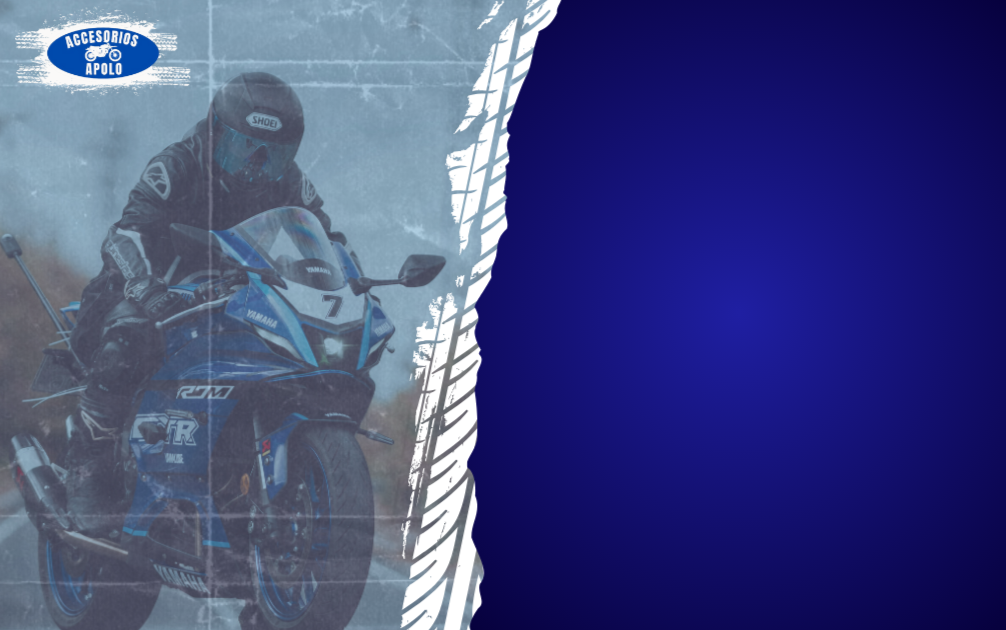
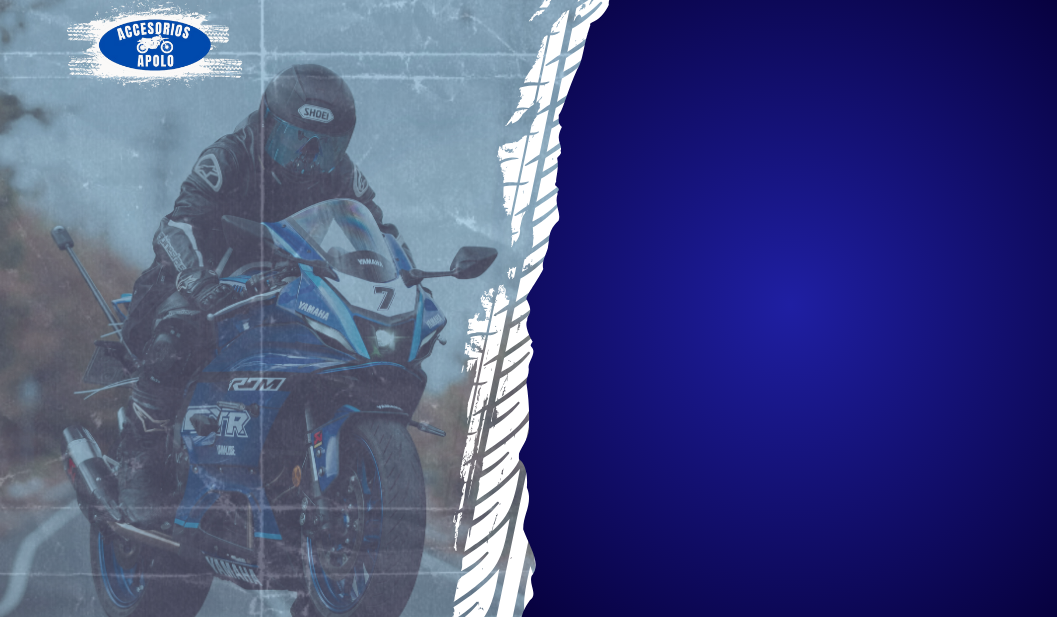
modal login listo y responsive

Changed region(s): [[0.0, 0.0, 0.5855, 1.0], [0.3698, 0.0616, 0.4006, 0.0924]]

diff --git a/src/Components/Layouts/LoginModal/LoginModal.css b/src/Components/Layouts/LoginModal/LoginModal.css
@@ -19,11 +19,11 @@
     pointer-events: auto;
 }
 
-.modal-box {
+.login-modal-box {
     position: relative;
     width: 58rem;
-    height: 35rem;
-    background-image: url('../../../assets/images/img-register.png');
+    height: 33rem;
+    background-image: url('../../../assets/images/img-login.png');
     background-size: cover;
     background-position: center;
     border-radius: 20px;
@@ -34,9 +34,11 @@
     /*transform: translateY(-30px);*/
     transition: all 0.35s ease;
     z-index: 10000;
+    display: flex;
+    justify-content: right;
 }
 
-.modal-box.active {
+.login-modal-box.active {
     opacity: 1;
     transform: scale(1);
 }
@@ -77,6 +79,7 @@
 .modal-form-container h2 {
     font-size: 28px;
     font-weight: bold;
+    margin-bottom: 30px;
     text-align: center;
 }
 
@@ -89,12 +92,16 @@ form {
 .input-group {
     display: flex;
     gap: 15px;
+    flex-direction: column;
+    justify-content: center;
+    align-items: center;
 }
 
 .input-field {
     flex: 1;
     display: flex;
     flex-direction: column;
+    width: 75%;
 }
 
 .input-field label {
@@ -130,7 +137,7 @@ form {
     align-items: center;
     justify-content: right;
     transition: all 0.3s ease;
-    width: 11rem;
+    width: 12rem;
     height: 3.5rem;
     margin-right: 2.7rem;
     text-align: center;
@@ -139,7 +146,7 @@ form {
 .submit-btn span {
     position: relative;
     z-index: 1;
-    padding-right: 1.5rem;
+    padding-right: 1.3rem;
 }
 
 .submit-btn:hover {
@@ -200,7 +207,7 @@ form {
 }
 
 @media (max-width: 394px){
-    .modal-box {
+    .login-modal-box {
         background: radial-gradient(circle at 50% 50%, #1f1fa2, #06003b);
         flex-direction: column;
         width: 84%;
@@ -218,7 +225,7 @@ form {
 }
 
 @media (min-width: 395px) and (max-width: 431px){
-    .modal-box {
+    .login-modal-box {
         background: radial-gradient(circle at 50% 50%, #1f1fa2, #06003b);
         flex-direction: column;
         width: 84%;
@@ -236,7 +243,7 @@ form {
 }
 
 @media (min-width: 432px) and (max-width: 481px){
-    .modal-box {
+    .login-modal-box {
         background: radial-gradient(circle at 50% 50%, #1f1fa2, #06003b);
         flex-direction: column;
         width: 84%;
@@ -253,9 +260,8 @@ form {
     }
 }
 
-@media (min-width: 482px) and (max-width: 821px){
-    .modal-box {
-        flex-direction: column;
+@media (min-width: 482px) and (max-width: 822px){
+    .login-modal-box{
         width: 84%;
         height: auto;
     }

diff --git a/src/Components/Layouts/LoginModal/LoginModal.jsx b/src/Components/Layouts/LoginModal/LoginModal.jsx
@@ -1,0 +1,45 @@
+import React from "react";
+import "./LoginModal.css";
+import iconGoogle from "../../../assets/icons/google.png";
+import iconFacebook from "../../../assets/icons/facebook.png";
+
+export const LoginModal = ({ isOpen, onClose }) => {
+    return (
+        <div className={`modal-overlay ${isOpen ? "active" : ""}`}>
+            <div className={`login-modal-box ${isOpen ? "active" : ""}`}>
+                <button className="close-btn" onClick={onClose}>×</button>
+
+                <div className="modal-form-container">
+                    <h2>INICIAR SESIÓN</h2>
+                    <form>
+
+                        <div className="input-group">
+                            <div className="input-field">
+                                <label>Correo *</label>
+                                <input type="email" placeholder="example@example.com" required />
+                            </div>
+                            <div className="input-field">
+                                <label>Contraseña *</label>
+                                <input type="password" placeholder="Contraseña" required />
+                            </div>
+                        </div>
+
+                        <div className="group-bottom">
+                            <button type="submit" className="submit-btn">
+                                <span>Iniciar Sesión</span>
+                            </button>
+
+                            <div className="divider">o</div>
+
+                            <div className="social-icons">
+                                <button type="button" className="social facebook"><img src={iconFacebook} alt="facebook" /></button>
+                                <span className="divider-vertical"></span>
+                                <button type="button" className="social google"><img src={iconGoogle} alt="google" /></button>
+                            </div>
+                        </div>
+                    </form>
+                </div>
+            </div>
+        </div>
+    );
+};

diff --git a/src/Components/Layouts/UserActions/UserActions.jsx b/src/Components/Layouts/UserActions/UserActions.jsx
@@ -1,30 +1,19 @@
-import React, { useState } from "react";
 import { Item } from "../../Ui/Item/Item";
-import { RegisterModal } from "../../Layouts/RegisterModal/RegisterModal.jsx";
 
-export const UserActions = ({ toggleMenu }) => {
-  const [isModalOpen, setIsModalOpen] = useState(false);
-
-  const openRegisterModal = () => setIsModalOpen(true);
-  const closeRegisterModal = () => setIsModalOpen(false);
-
+export const UserActions = ({ toggleMenu, onOpenRegister, onOpenLogin }) => {
   return (
     <>
       <div className="container-icon-actions">
-        <Item styleLi="item-action" children={<i class="hgi hgi-stroke hgi-location-01"></i>} contenido="Lugar" />
-        <Item styleLi="item-action" children={<i class="hgi hgi-stroke hgi-baseball-helmet"></i>} contenido="Cuenta" />
-        <Item styleLi="item-action" children={<i class="hgi hgi-stroke hgi-sharp hgi-backpack-03"></i>} contenido="Maletero" />
-        <button className="hamburger-btn-actions" onClick={toggleMenu}>
-          ☰
-        </button>
+        <Item styleLi="item-action" children={<i className="hgi hgi-stroke hgi-location-01"></i>} contenido="Lugar" />
+        <Item styleLi="item-action" children={<i className="hgi hgi-stroke hgi-baseball-helmet"></i>} contenido="Cuenta" />
+        <Item styleLi="item-action" children={<i className="hgi hgi-stroke hgi-sharp hgi-backpack-03"></i>} contenido="Maletero" />
+        <button className="hamburger-btn-actions" onClick={toggleMenu}>☰</button>
       </div>
 
       <div className="container-icon-actions">
-        <button className="register" onClick={openRegisterModal}>registrarse</button>
-        <button className="login">iniciar sesion</button>
+        <button className="register" onClick={onOpenRegister}>registrarse</button>
+        <button className="login" onClick={onOpenLogin}>iniciar sesion</button>
       </div>
-
-      <RegisterModal isOpen={isModalOpen} onClose={closeRegisterModal} />
     </>
   );
 };

diff --git a/src/Components/Layouts/Header/Header.jsx b/src/Components/Layouts/Header/Header.jsx
@@ -8,10 +8,12 @@ import { Item } from "../../Ui/Item/Item.jsx";
 import { MainNav } from "../MainNav/MainNav.jsx";
 import { UserActions } from "../UserActions/UserActions.jsx";
 import { RegisterModal } from "../../Layouts/RegisterModal/RegisterModal.jsx";
+import { LoginModal } from "../LoginModal/LoginModal.jsx";
 
 export const Header = () => {
   const [menuOpen, setMenuOpen] = useState(false);
   const [registerOpen, setRegisterOpen] = useState(false);
+  const [loginOpen, setLoginOpen] = useState(false);
 
   const toggleMenu = () => setMenuOpen(!menuOpen);
   const closeMenu = () => setMenuOpen(false);
@@ -22,6 +24,13 @@ export const Header = () => {
   };
 
   const closeRegister = () => setRegisterOpen(false);
+
+  const openLogin = () => {
+    setLoginOpen(true);
+    setMenuOpen(false);
+  };
+
+  const closeLogin = () => setLoginOpen(false);
 
   return (
     <header>
@@ -52,12 +61,13 @@ export const Header = () => {
         </div>
 
         <div className="container-icon2">
-          <UserActions toggleMenu={toggleMenu} />
+          <UserActions toggleMenu={toggleMenu} onOpenRegister={openRegister} onOpenLogin={openLogin} />
         </div>
       </div>
 
-      <HamburgerMenu isOpen={menuOpen} onClose={closeMenu} onOpenRegister={openRegister} />
+      <HamburgerMenu isOpen={menuOpen} onClose={closeMenu} onOpenRegister={openRegister} onOpenLogin={openLogin} />
       <RegisterModal isOpen={registerOpen} onClose={closeRegister} />
+      <LoginModal isOpen={loginOpen} onClose={closeLogin} />
     </header>
   );
 };

diff --git a/src/Components/Layouts/HamburguerMenu/HamburguerMenu.jsx b/src/Components/Layouts/HamburguerMenu/HamburguerMenu.jsx
@@ -1,6 +1,6 @@
 import { MainNav } from "../MainNav/MainNav";
 
-export const HamburgerMenu = ({ isOpen, onClose, onOpenRegister }) => {
+export const HamburgerMenu = ({ isOpen, onClose, onOpenRegister, onOpenLogin }) => {
     if (!isOpen) return null;
   
     return (
@@ -10,7 +10,7 @@ export const HamburgerMenu = ({ isOpen, onClose, onOpenRegister }) => {
           <MainNav styleContainer={"container-list-burguer"} />
           <div className="container-buttons">
             <button className="register" onClick={onOpenRegister}>registrarse</button>
-            <button className="login">iniciar sesión</button>
+            <button className="login" onClick={onOpenLogin}>iniciar sesión</button>
           </div>
         </div>
       </div>
